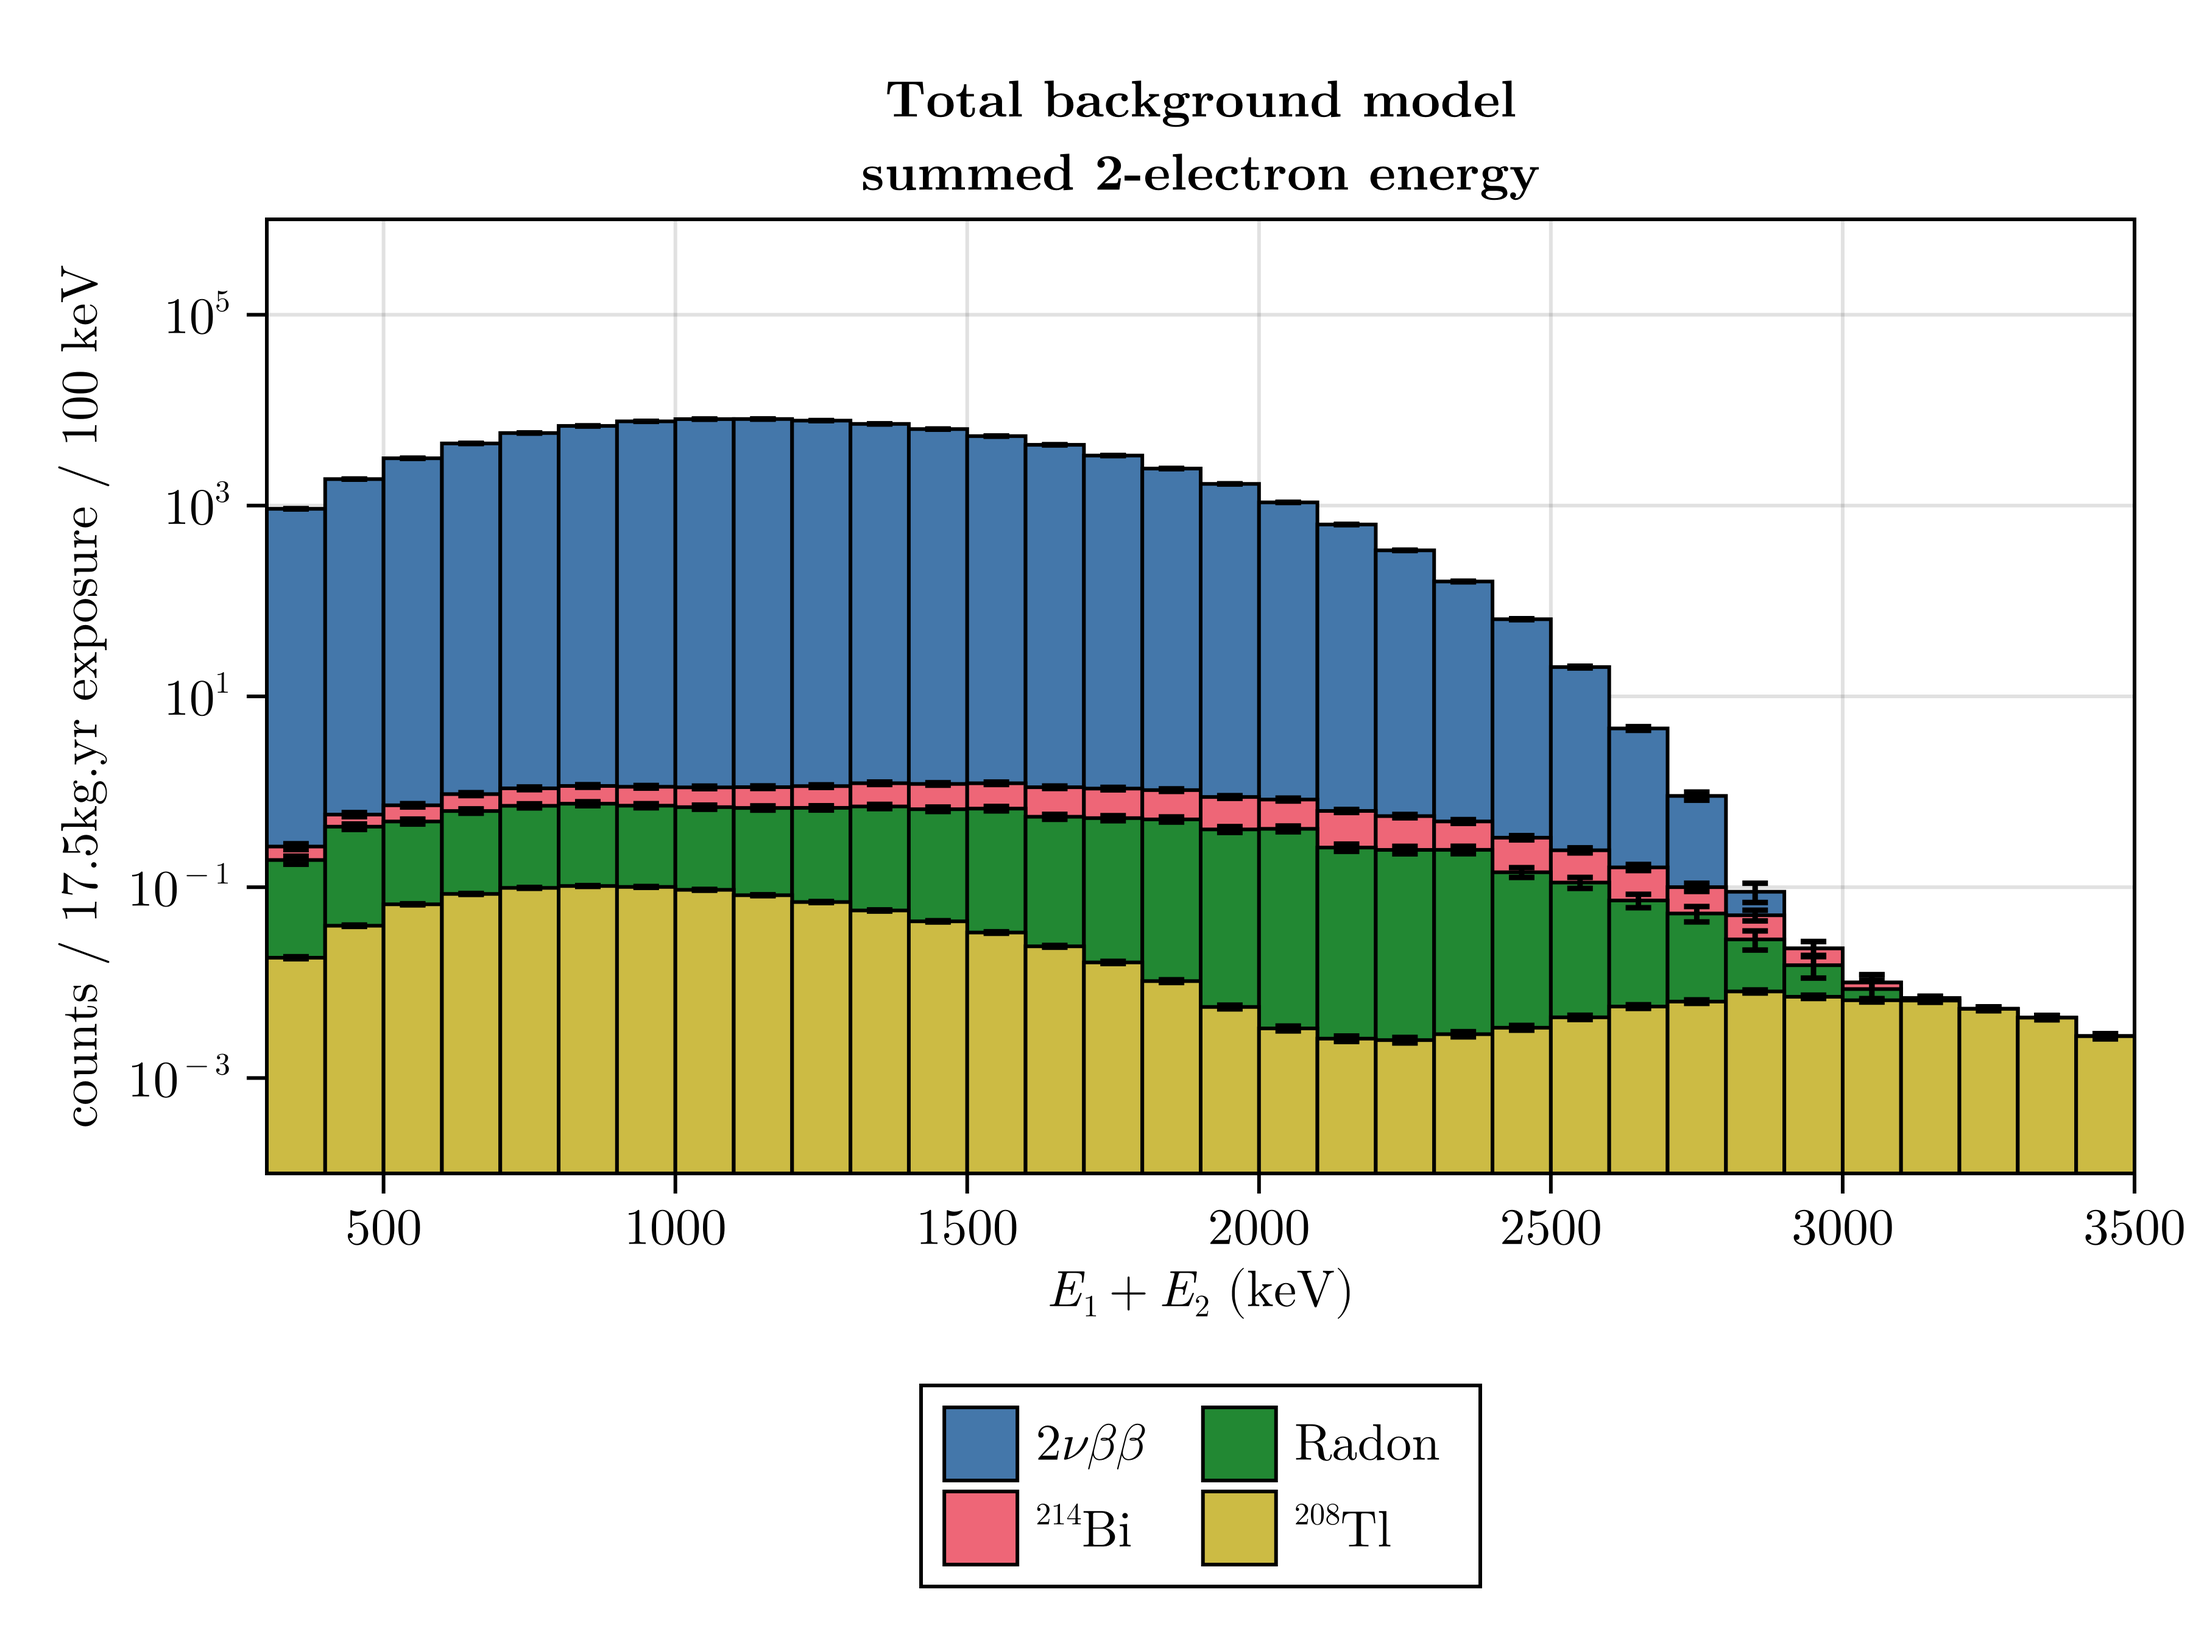
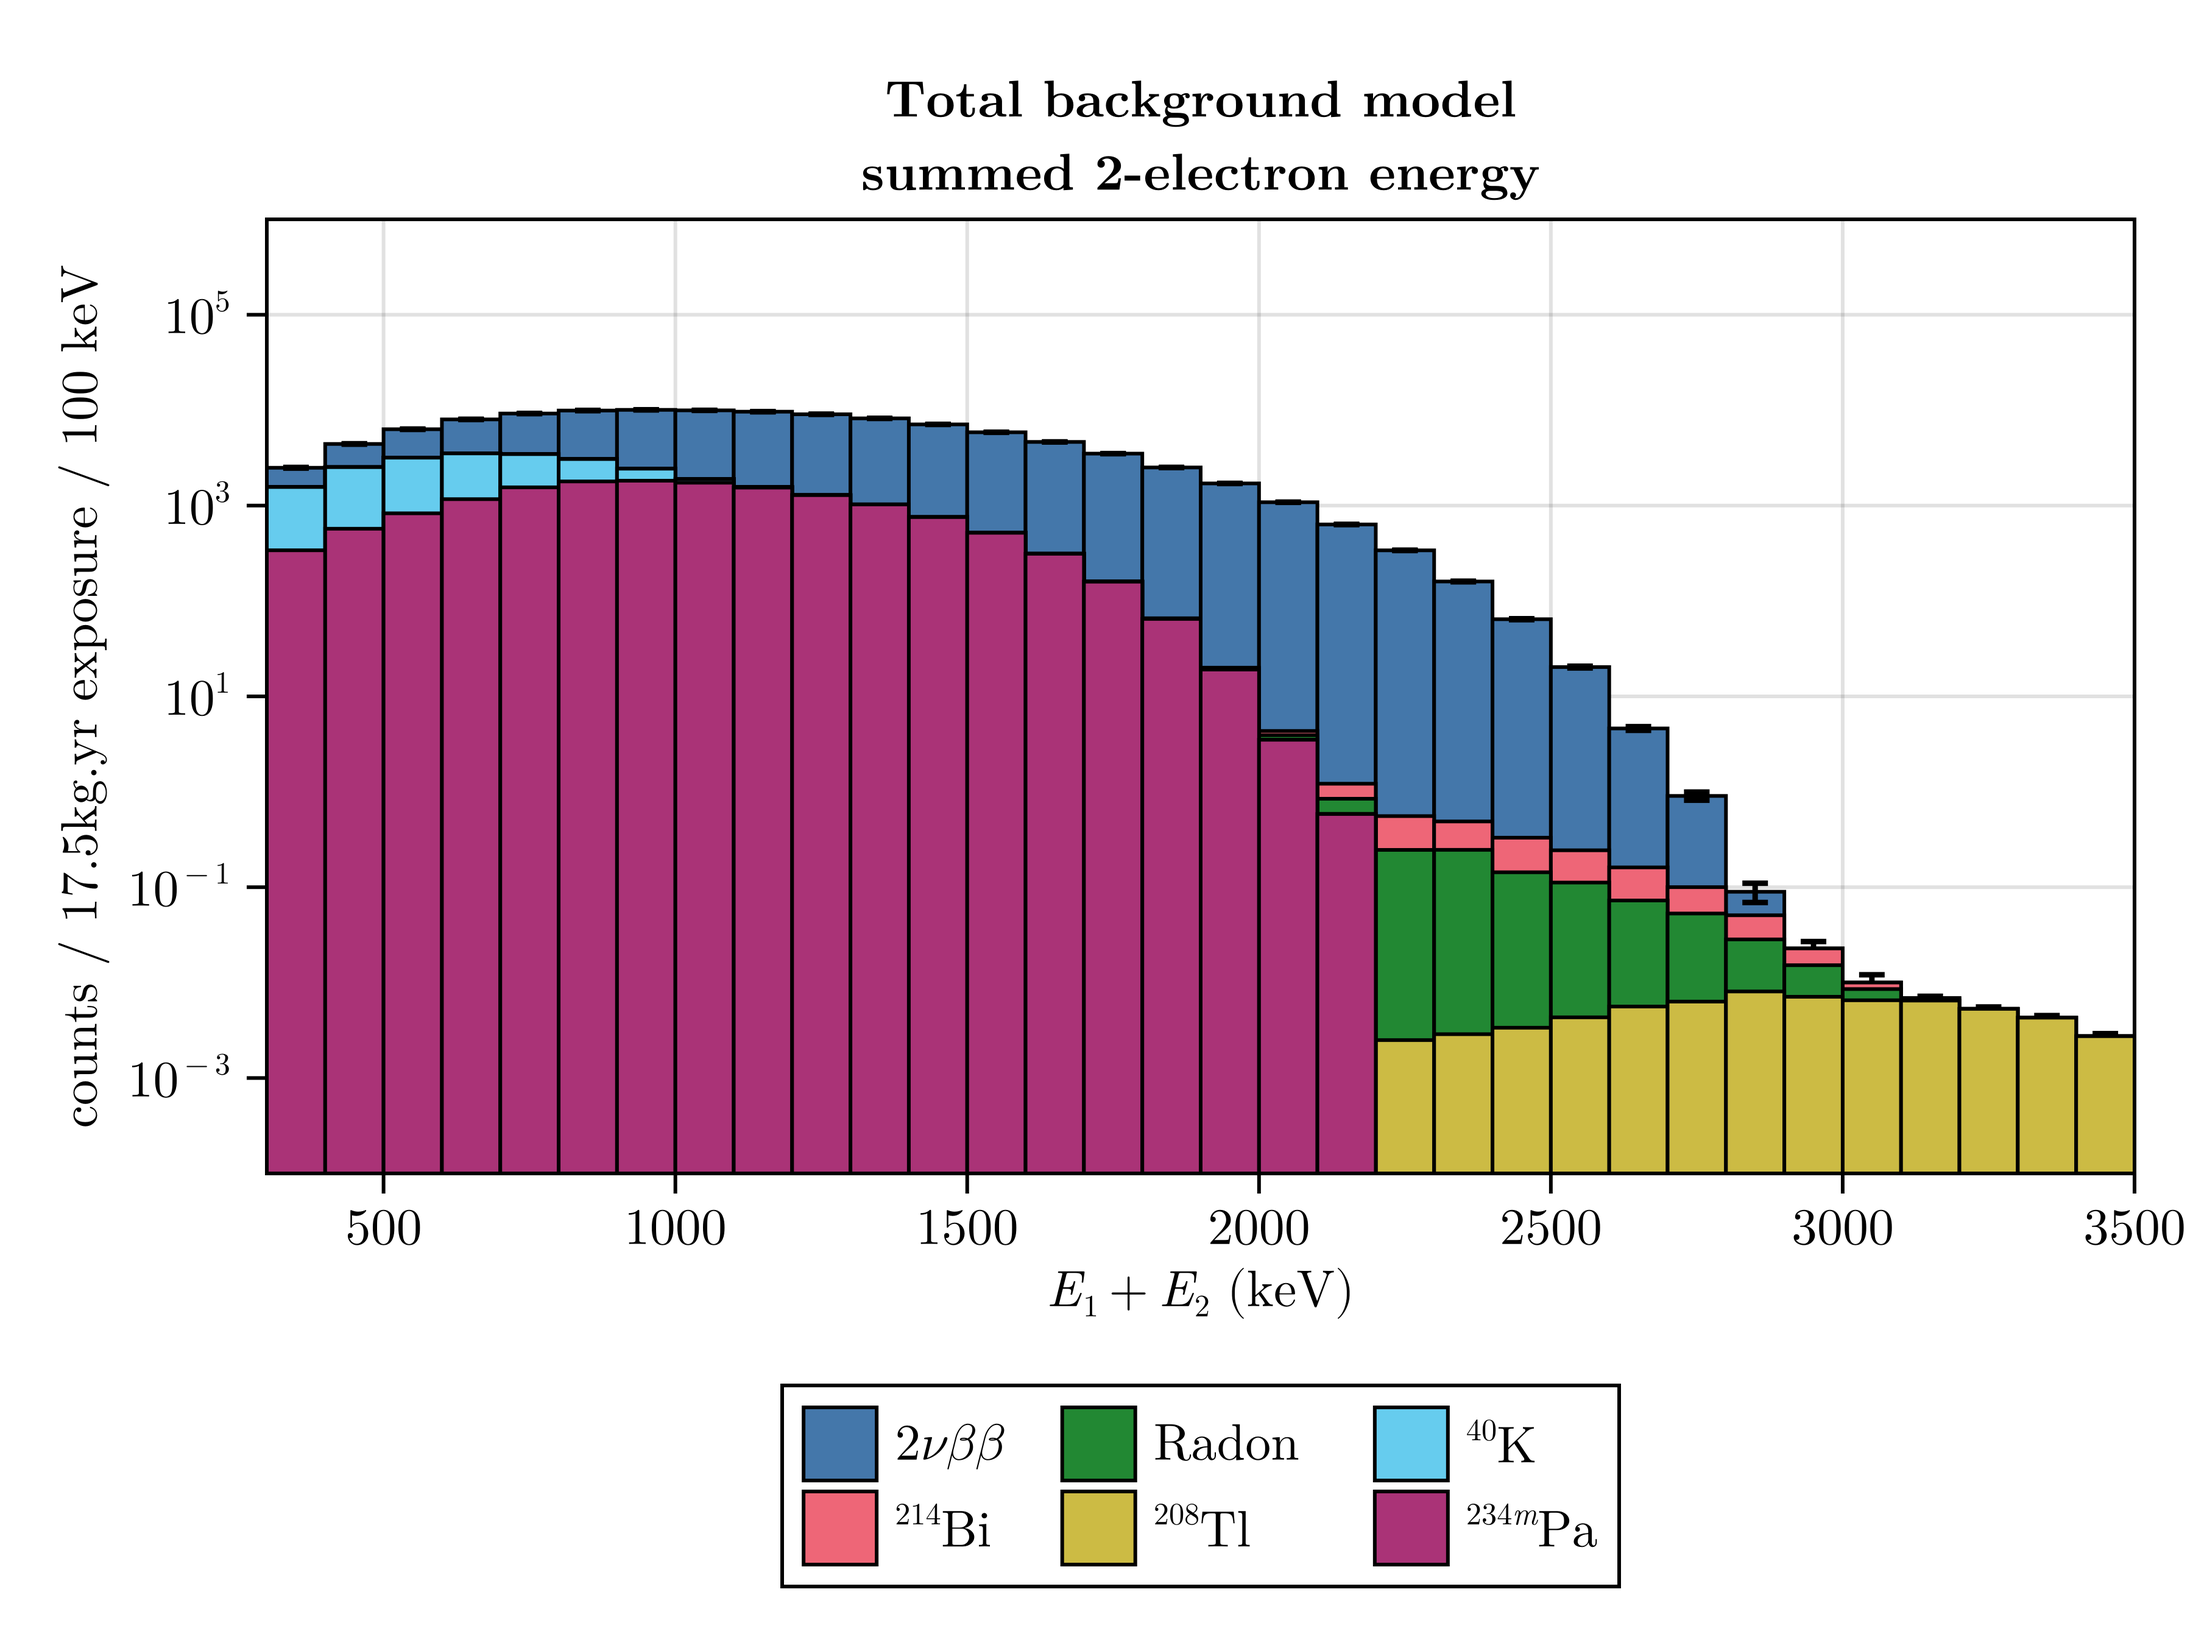
figs

diff --git a/plots/LSM_report/backgroundTables/sumE/background_counts_Bfield=Boff_Eres=8perc_mode=sumE_neutron_config=no_neutron_signal=bb0nu_foil_bulk_trackAlgo=TKrec.md b/plots/LSM_report/backgroundTables/sumE/background_counts_Bfield=Boff_Eres=8perc_mode=sumE_neutron_config=no_neutron_signal=bb0nu_foil_bulk_trackAlgo=TKrec.md
@@ -7,3 +7,14 @@
 | $^{40}$K         | 12155.0±63.0          |
 | $^{234m}$Pa      | 15578.0±39.0          |
 | total            | 115417.0±80.0         |
+
+
+| **process**      | **bkg counts** |
+|:-----------------|:----------------------|
+| 2nubb            | 87663.0±29.0        |
+| Bi214            | 8.903±0.022         |
+| Radon            | 10.62±0.15          |
+| Tl208            | 1.0227±0.0034       |
+| K40              | 12155.0±63.0        |
+| Pa234m           | 15578.0±39.0        |
+| total            | 115417.0±80.0       |
